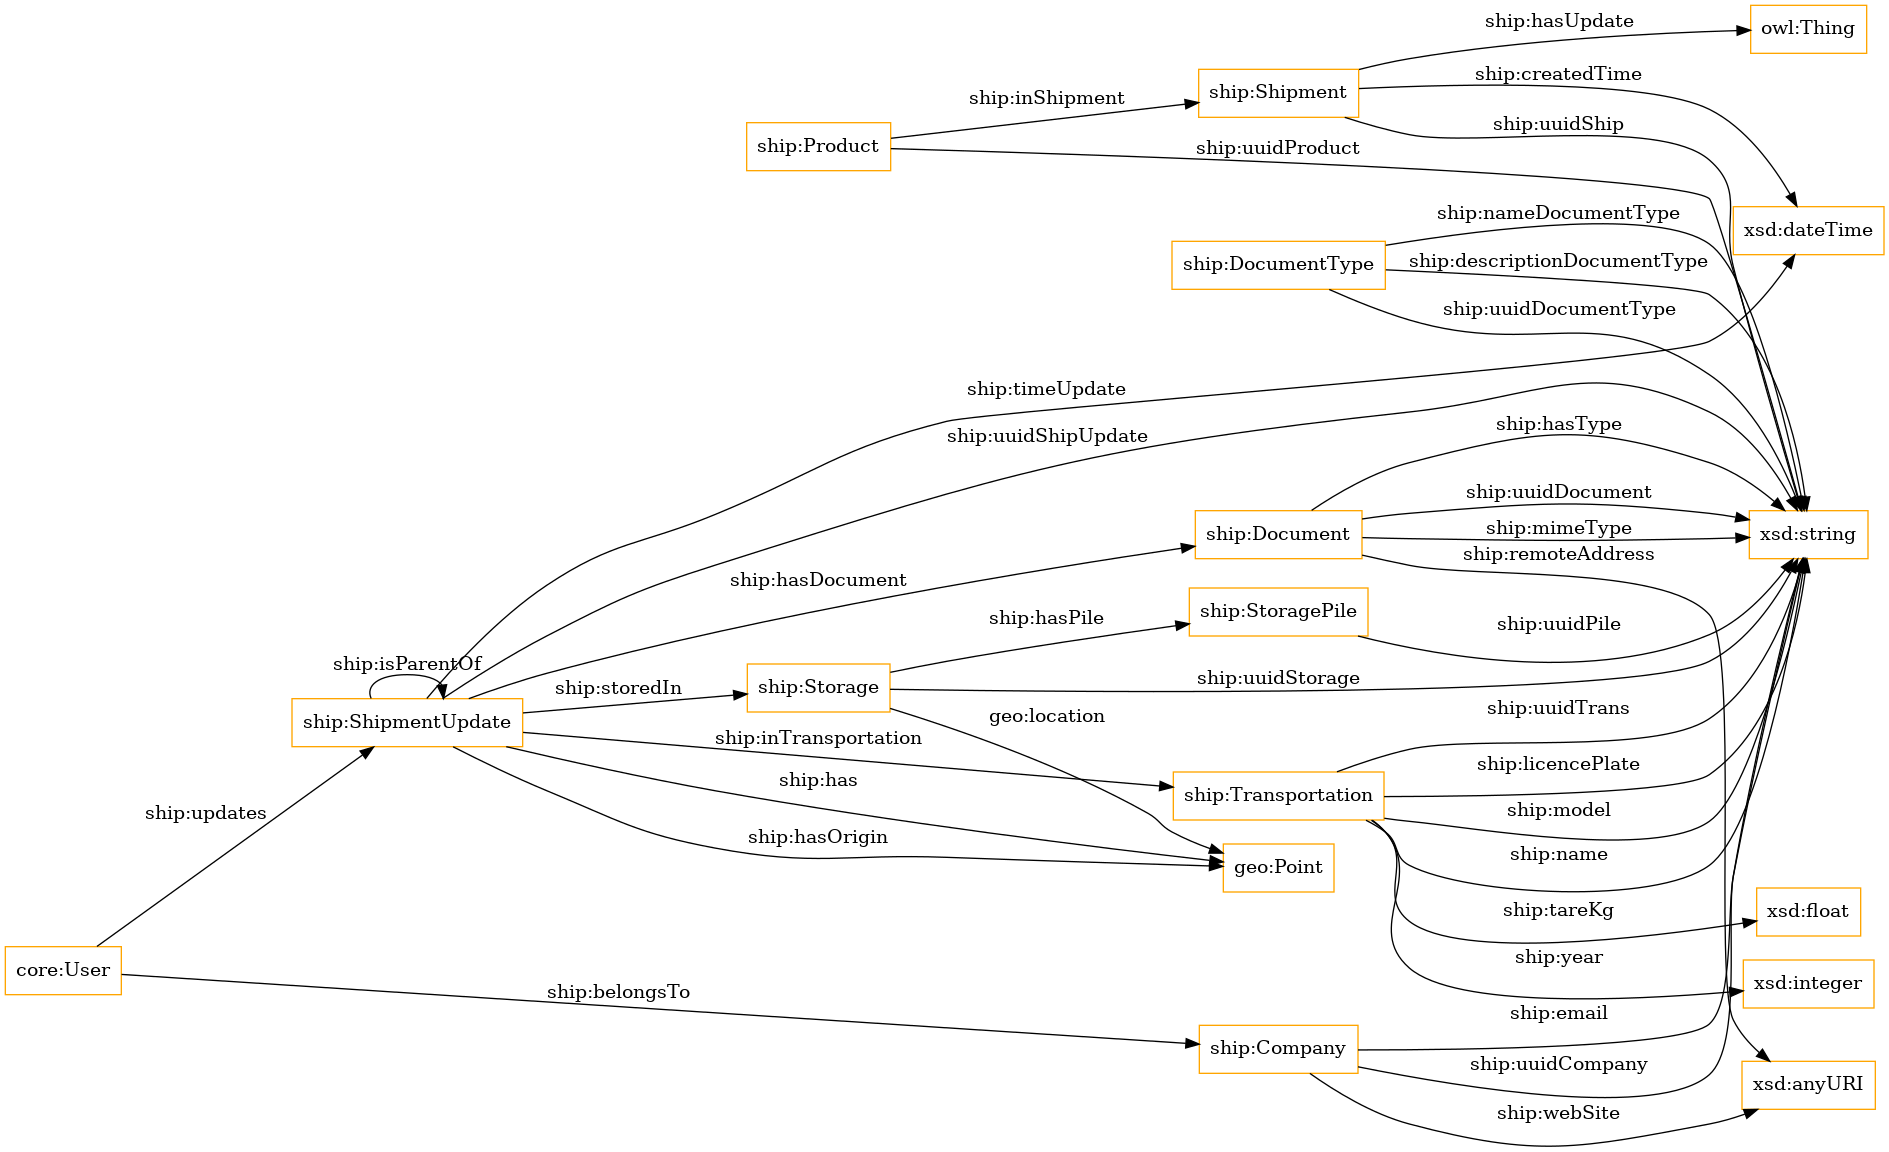
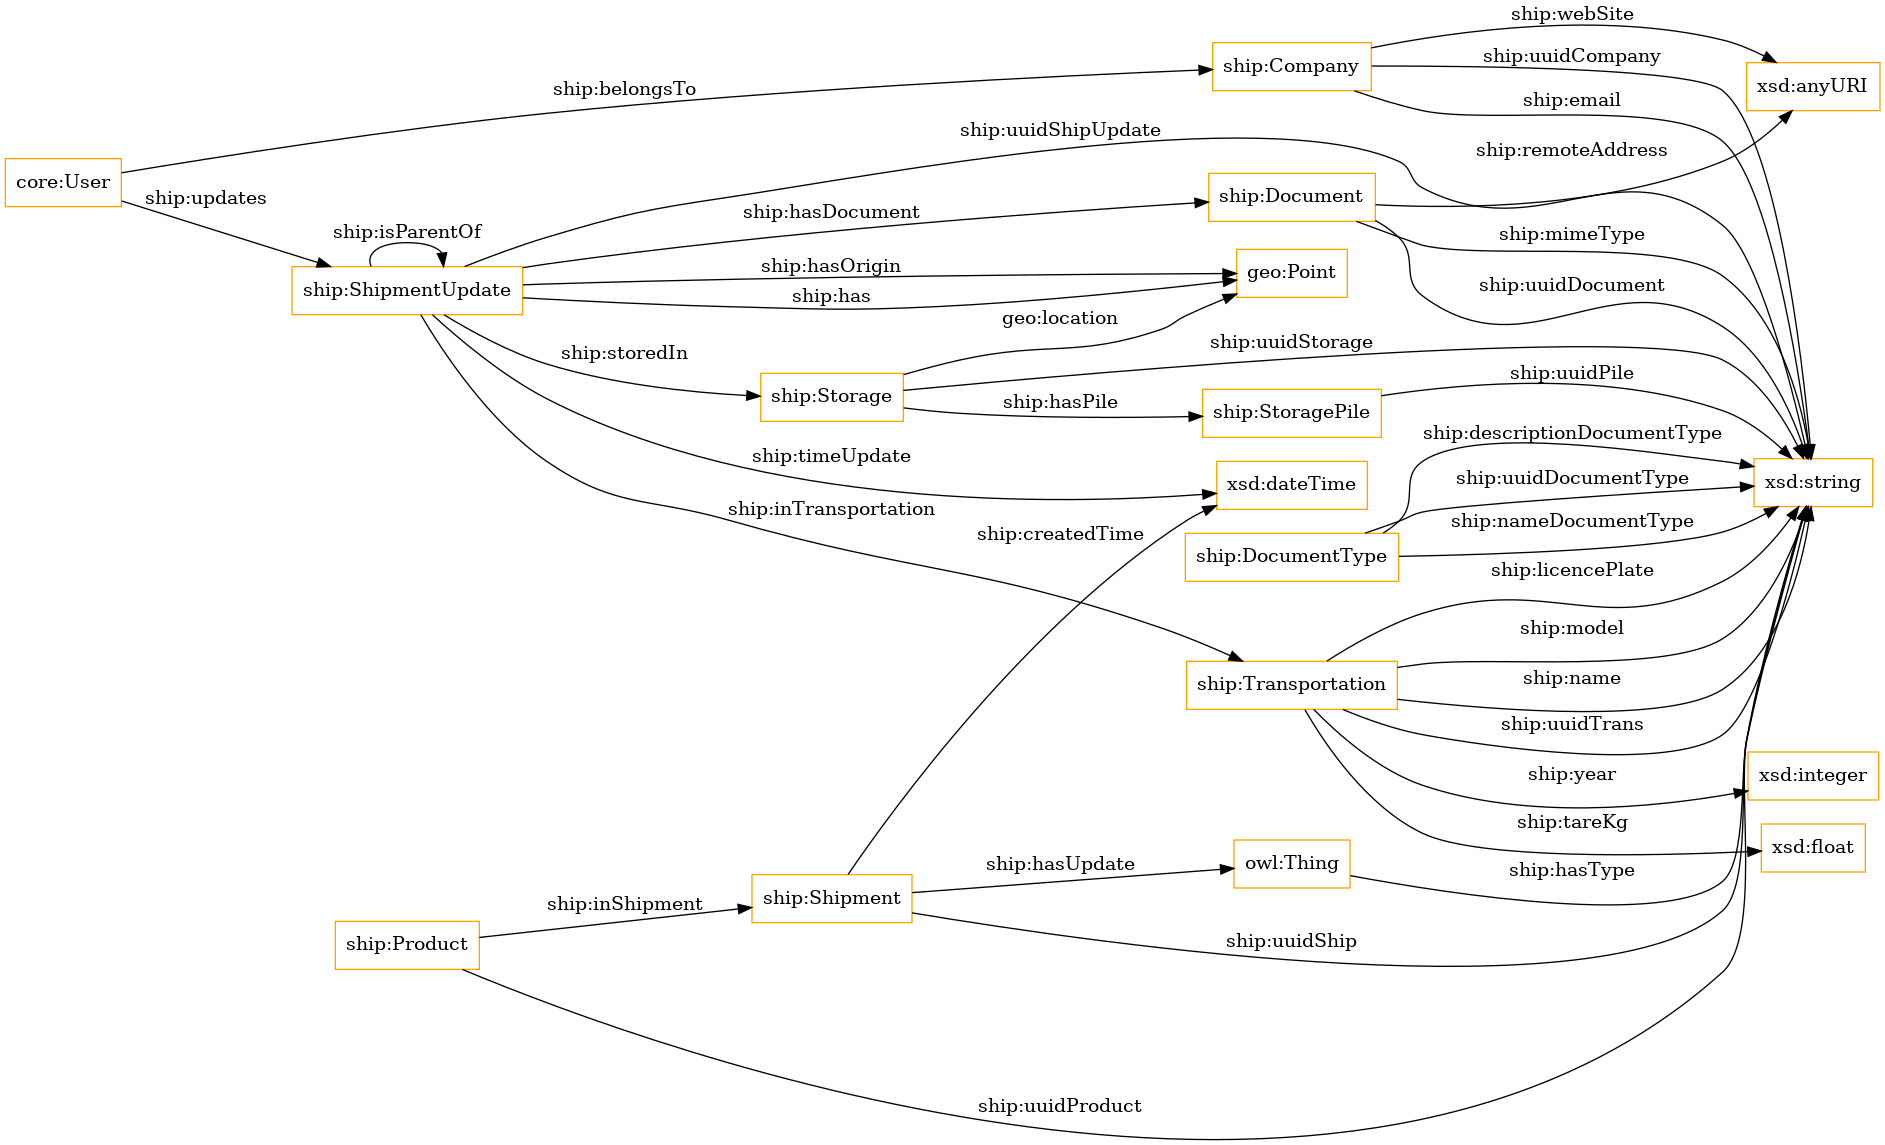
automated change

diff --git a/OnToology/ontology/shipment.ttl/documentation/sections/crossref-en.html b/OnToology/ontology/shipment.ttl/documentation/sections/crossref-en.html
@@ -110,11 +110,15 @@ This section provides details for each class and property defined by [Ontology N
       <p>
          <strong>IRI:</strong> https://auroral.iot.linkeddata.es/def/shipment#Document</p>
       <dl class="description">
+         <dt>has sub-classes</dt>
+         <dd>
+            <a href="#DocumentType"
+               title="https://auroral.iot.linkeddata.es/def/shipment#DocumentType">Document Type</a>
+            <sup class="type-c" title="class">c</sup>
+         </dd>
          <dt>is in domain of</dt>
          <dd>
-            <a href="#hasType"
-               title="https://auroral.iot.linkeddata.es/def/shipment#hasType">has type</a>
-            <sup class="type-op" title="object property">op</sup>, <a href="#mimeType"
+            <a href="#mimeType"
                title="https://auroral.iot.linkeddata.es/def/shipment#mimeType">mime type</a>
             <sup class="type-dp" title="data property">dp</sup>, <a href="#remoteAddress"
                title="https://auroral.iot.linkeddata.es/def/shipment#remoteAddress">remote address</a>
@@ -138,6 +142,12 @@ This section provides details for each class and property defined by [Ontology N
       <p>
          <strong>IRI:</strong> https://auroral.iot.linkeddata.es/def/shipment#DocumentType</p>
       <dl class="description">
+         <dt>has super-classes</dt>
+         <dd>
+            <a href="#Document"
+               title="https://auroral.iot.linkeddata.es/def/shipment#Document">Document</a>
+            <sup class="type-c" title="class">c</sup>
+         </dd>
          <dt>is in domain of</dt>
          <dd>
             <a href="#descriptionDocumentType"
@@ -147,12 +157,6 @@ This section provides details for each class and property defined by [Ontology N
             <sup class="type-dp" title="data property">dp</sup>, <a href="#uuidDocumentType"
                title="https://auroral.iot.linkeddata.es/def/shipment#uuidDocumentType">uuid document type</a>
             <sup class="type-dp" title="data property">dp</sup>
-         </dd>
-         <dt>is in range of</dt>
-         <dd>
-            <a href="#hasType"
-               title="https://auroral.iot.linkeddata.es/def/shipment#hasType">has type</a>
-            <sup class="type-op" title="object property">op</sup>
          </dd>
       </dl>
    </div>
@@ -257,8 +261,6 @@ This section provides details for each class and property defined by [Ontology N
                title="https://auroral.iot.linkeddata.es/def/shipment#hasDocument">has document</a>
             <sup class="type-op" title="object property">op</sup>, <a href="#hasOrigin"
                title="https://auroral.iot.linkeddata.es/def/shipment#hasOrigin">has origin</a>
-            <sup class="type-op" title="object property">op</sup>, <a href="#hasType"
-               title="https://auroral.iot.linkeddata.es/def/shipment#hasType">has type</a>
             <sup class="type-op" title="object property">op</sup>, <a href="#inTransportation"
                title="https://auroral.iot.linkeddata.es/def/shipment#inTransportation">in transportation</a>
             <sup class="type-op" title="object property">op</sup>, <a href="#isParentOf"
@@ -402,12 +404,6 @@ This section provides details for each class and property defined by [Ontology N
             title="https://auroral.iot.linkeddata.es/def/shipment#hasPile">has pile</a>
       </li>
       <li>
-         <a href="#hasType"
-            title="https://auroral.iot.linkeddata.es/def/shipment#hasType">
-            <span>has type</span>
-         </a>
-      </li>
-      <li>
          <a href="#hasUpdate"
             title="https://auroral.iot.linkeddata.es/def/shipment#hasUpdate">has update</a>
       </li>
@@ -548,39 +544,6 @@ This section provides details for each class and property defined by [Ontology N
                <a href="#StoragePile"
                   title="https://auroral.iot.linkeddata.es/def/shipment#StoragePile">Storage Pile</a>
                <sup class="type-c" title="class">c</sup>
-            </dd>
-         </dl>
-      </div>
-   </div>
-   <div class="entity" id="hasType">
-      <h3>has type<sup class="type-op" title="object property">op</sup>
-         <span class="backlink"> back to <a href="#toc">ToC</a> or <a href="#objectproperties">Object Property ToC</a>
-         </span>
-      </h3>
-      <p>
-         <strong>IRI:</strong> https://auroral.iot.linkeddata.es/def/shipment#hasType</p>
-      <div class="description">
-         <dl>
-            <dt>has domain</dt>
-            <dd>
-               <a href="#Document"
-                  title="https://auroral.iot.linkeddata.es/def/shipment#Document">Document</a>
-               <sup class="type-c" title="class">c</sup>
-            </dd>
-            <dd>
-               <a href="#ShipmentUpdate"
-                  title="https://auroral.iot.linkeddata.es/def/shipment#ShipmentUpdate">Shipment Update</a>
-               <sup class="type-c" title="class">c</sup>
-            </dd>
-            <dt>has range</dt>
-            <dd>
-               <a href="#DocumentType"
-                  title="https://auroral.iot.linkeddata.es/def/shipment#DocumentType">Document Type</a>
-               <sup class="type-c" title="class">c</sup>
-            </dd>
-            <dt>is also defined as</dt>
-            <dd>
-               <a href="#hasType">data property</a>
             </dd>
          </dl>
       </div>
@@ -933,7 +896,7 @@ This section provides details for each class and property defined by [Ontology N
       </div>
    </div>
    <div class="entity" id="hasType">
-      <h3>has type<sup class="type-op" title="object property">op</sup>
+      <h3>has type<sup class="type-dp" title="data property">dp</sup>
          <span class="backlink"> back to <a href="#toc">ToC</a> or <a href="#dataproperties">Data Property ToC</a>
          </span>
       </h3>
@@ -946,10 +909,6 @@ This section provides details for each class and property defined by [Ontology N
                <a href="http://www.w3.org/2001/XMLSchema#string"
                   target="_blank"
                   title="http://www.w3.org/2001/XMLSchema#string">string</a>
-            </dd>
-            <dt>is also defined as</dt>
-            <dd>
-               <a href="#hasType">object property</a>
             </dd>
          </dl>
       </div>

diff --git a/OnToology/ontology/shipment.ttl/documentation/sections/overview-en.html b/OnToology/ontology/shipment.ttl/documentation/sections/overview-en.html
@@ -75,12 +75,6 @@ This ontology has the following classes and properties.</span>
          title="https://auroral.iot.linkeddata.es/def/shipment#hasPile">has pile</a>
    </li>
    <li>
-      <a href="#hasType"
-         title="https://auroral.iot.linkeddata.es/def/shipment#hasType">
-         <span>has type</span>
-      </a>
-   </li>
-   <li>
       <a href="#hasUpdate"
          title="https://auroral.iot.linkeddata.es/def/shipment#hasUpdate">has update</a>
    </li>
